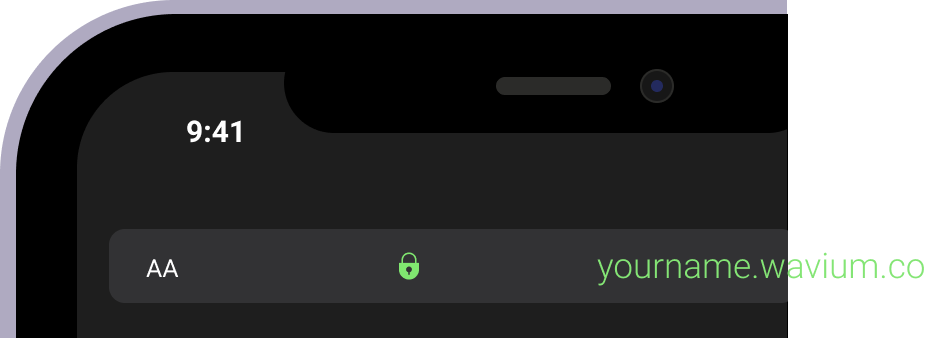
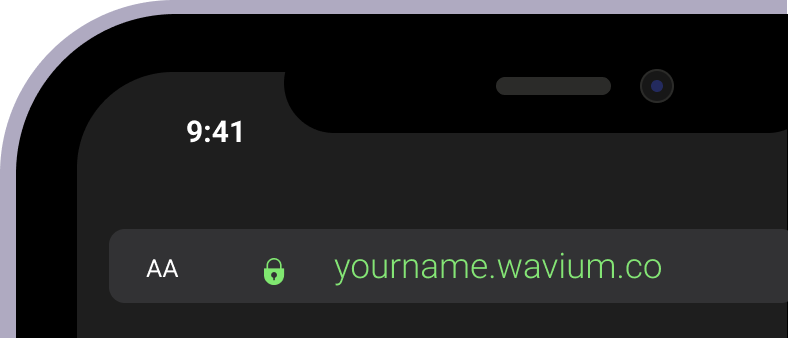
fix the font issue

diff --git a/src/app/globals.css b/src/app/globals.css
@@ -1,75 +1,77 @@
 @tailwind base;
 @tailwind components;
 @tailwind utilities;
- 
+
 @layer base {
   :root {
+    --font-poppins: 'Poppins', sans-serif;
     --background: 0 0% 100%;
     --foreground: 224 71.4% 4.1%;
 
     --card: 0 0% 100%;
     --card-foreground: 224 71.4% 4.1%;
- 
+
     --popover: 0 0% 100%;
     --popover-foreground: 224 71.4% 4.1%;
- 
+
     --primary: 220.9 39.3% 11%;
     --primary-foreground: 210 20% 98%;
- 
+
     --secondary: 220 14.3% 95.9%;
     --secondary-foreground: 220.9 39.3% 11%;
- 
+
     --muted: 220 14.3% 95.9%;
     --muted-foreground: 220 8.9% 46.1%;
- 
+
     --accent: 220 14.3% 95.9%;
     --accent-foreground: 220.9 39.3% 11%;
- 
+
     --destructive: 0 84.2% 60.2%;
     --destructive-foreground: 210 20% 98%;
 
     --border: 220 13% 91%;
     --input: 220 13% 91%;
     --ring: 224 71.4% 4.1%;
- 
+
     --radius: 0.5rem;
   }
- 
+
   .dark {
     --background: 224 71.4% 4.1%;
     --foreground: 210 20% 98%;
- 
+
     --card: 224 71.4% 4.1%;
     --card-foreground: 210 20% 98%;
- 
+
     --popover: 224 71.4% 4.1%;
     --popover-foreground: 210 20% 98%;
- 
+
     --primary: 210 20% 98%;
     --primary-foreground: 220.9 39.3% 11%;
- 
+
     --secondary: 215 27.9% 16.9%;
     --secondary-foreground: 210 20% 98%;
- 
+
     --muted: 215 27.9% 16.9%;
     --muted-foreground: 217.9 10.6% 64.9%;
- 
+
     --accent: 215 27.9% 16.9%;
     --accent-foreground: 210 20% 98%;
- 
+
     --destructive: 0 62.8% 30.6%;
     --destructive-foreground: 210 20% 98%;
- 
+
     --border: 215 27.9% 16.9%;
     --input: 215 27.9% 16.9%;
     --ring: 216 12.2% 83.9%;
   }
 }
- 
+
 @layer base {
   * {
     @apply border-border;
   }
+
   body {
     @apply bg-background text-foreground;
   }

diff --git a/src/app/layout.tsx b/src/app/layout.tsx
@@ -5,14 +5,12 @@ import { cn } from "@/lib/utils";
 
 const poppins = Poppins({
   subsets: ['latin'],
-  display: 'swap',
-  variable: '--font-poppins',
-  weight: ['100', '200', '300', '400', '500', '600', '700', '800', '900']
-});
+  weight: ["100", "200", "400", "500", "600", "700", "900"]
+})
 
 export const metadata: Metadata = {
-  title: "Create Next App",
-  description: "Generated by create next app",
+  title: "Marico",
+  description: "Marico helps creators to engage with their audience automatically",
 };
 
 export default function RootLayout({
@@ -25,9 +23,10 @@ export default function RootLayout({
       <body
         className={cn(
           "min-h-screen bg-black text-white font-sans antialiased",
-          poppins.variable
+          poppins.className
         )}
-      >{children}
+      >
+        {children}
       </body>
     </html>
   );
